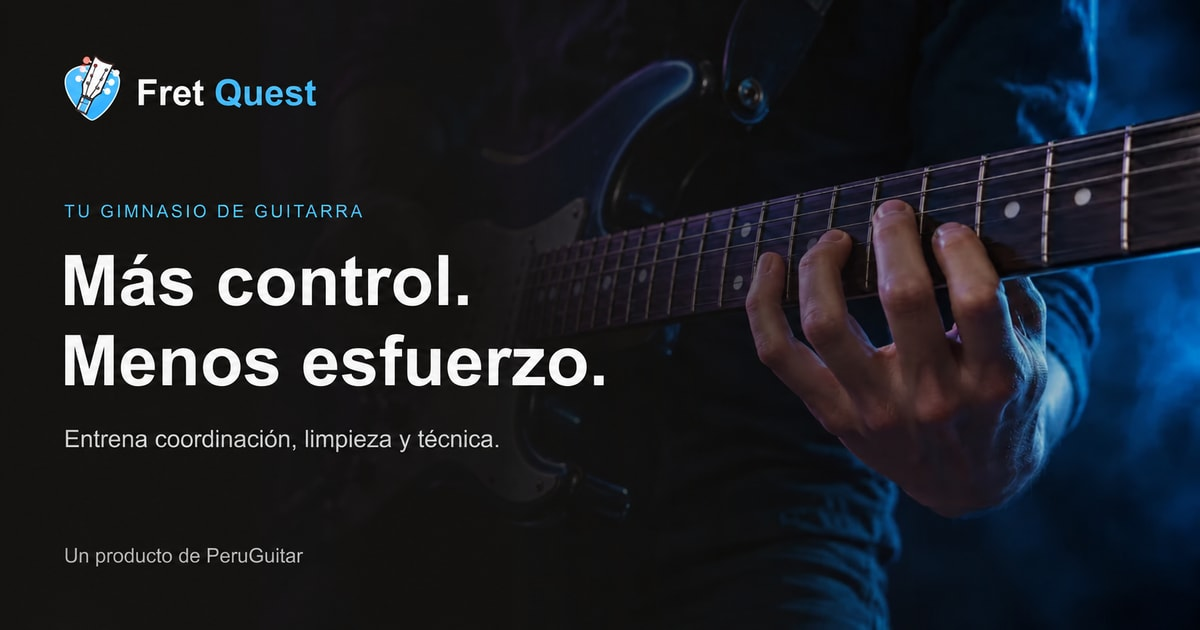
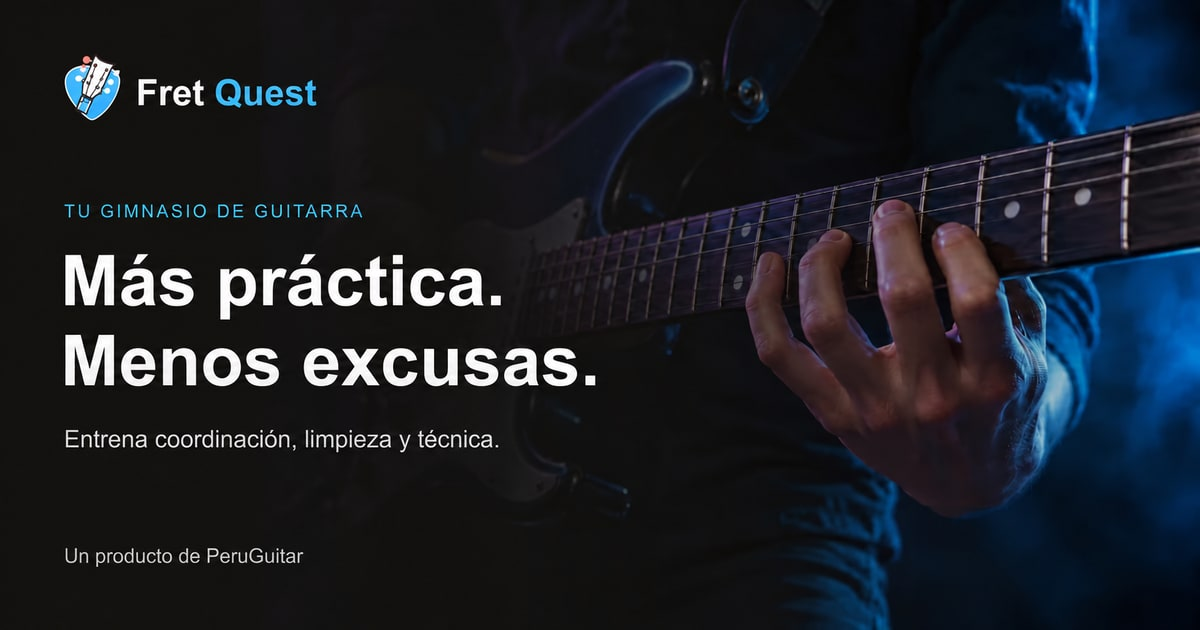
feat: new slogan and share image (0.8.4)

diff --git a/src/lib/seo.ts b/src/lib/seo.ts
@@ -12,7 +12,7 @@ const DEFAULT_IMAGE = { url: "/images/og-fretquest-v2.jpg", width: 1200, height:
 export function pageMetadata({ title, description = DEFAULT_DESCRIPTION, path, image, noindex = false }: {
   title?: string; description?: string; path: string; image?: string; noindex?: boolean;
 }): Metadata {
-  const fullTitle = title ? `${title} · ${SITE_NAME}` : `${SITE_NAME} · Más control. Menos esfuerzo.`;
+  const fullTitle = title ? `${title} · ${SITE_NAME}` : `${SITE_NAME} · Más práctica. Menos excusas.`;
   const images = [image ? { url: image, alt: title ?? SITE_NAME } : DEFAULT_IMAGE];
   return {
     title: fullTitle,

diff --git a/src/data/changelog.ts b/src/data/changelog.ts
@@ -2,6 +2,13 @@
 // `date` es el día del pase (AAAA-MM-DD): la página junta las versiones del mismo día.
 export const changelog: { version: string; date: string; notes: string[] }[] = [
     {
+        version: '0.8.4',
+        date: '2026-10-30',
+        notes: [
+            'Nuevo eslogan: «Más práctica. Menos excusas.» y nueva imagen para compartir.',
+        ],
+    },
+    {
         version: '0.8.3',
         date: '2026-10-30',
         notes: [
